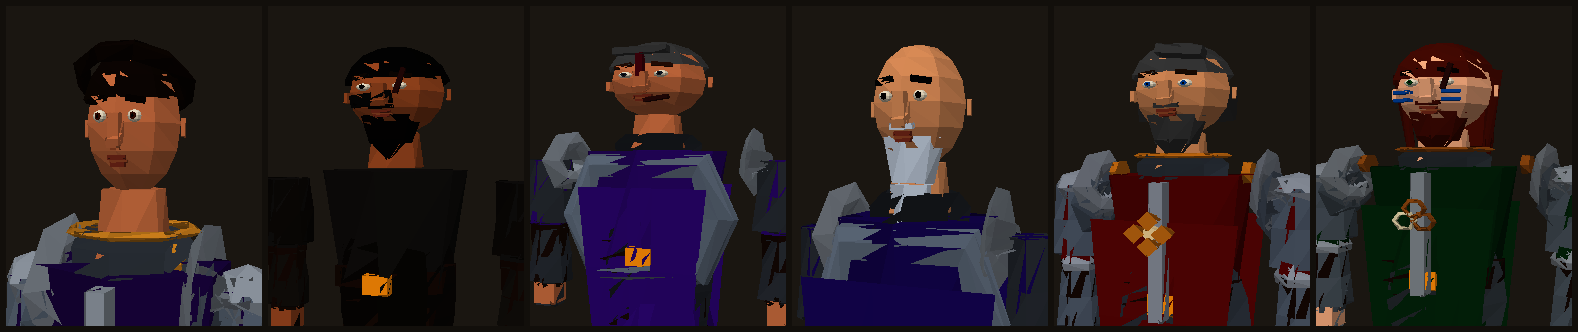
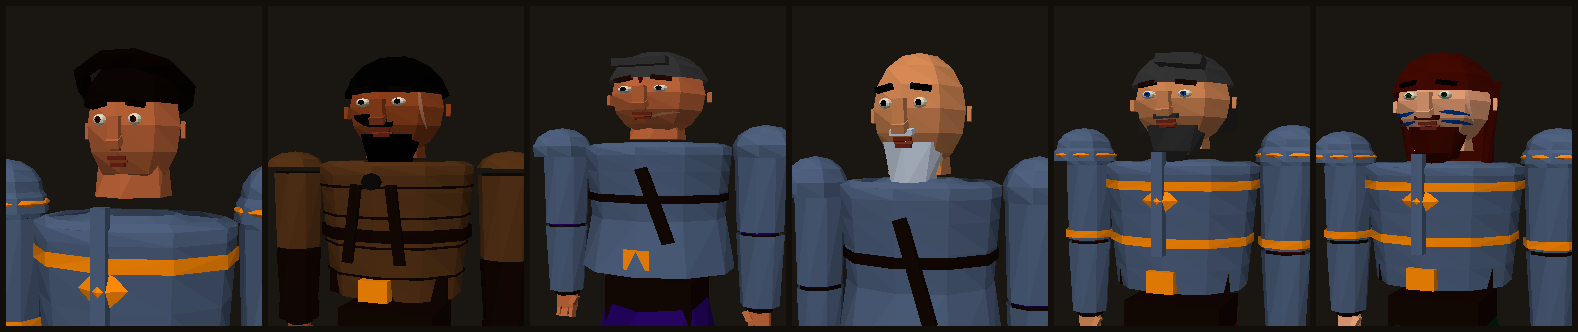
fix(rig): portrede zırhın üstünden taşan tunik ve zırh oturması (Faz 9e)
- gövde silindiri 0.24 -> 0.20 (zırh sığsın), zırh profili gövdeyi birebir izliyor
- yeni üst kapak (topPlate): lathe'ın açık ucu gövde kapağını gösteriyordu
- yaka çeneden omuza uzanan boyunduruk oldu, taban sabit ölçekleniyor
- zırh gövdeyi tamamen örtünce altındaki tunik mesh'i gizleniyor (mor halka bitti)
- preview-portraits/preview-scars: barycentric derinlik ağırlıkları düzeltildi
  (zırhın içindeki kumaş öne geçip mor çizik üretiyordu)
- refitArmorToHead artık createCharacterRig sonunda da çağrılıyor
- probe-armor-chest: taşma ölçütü çevrel yarıçapa normalize edildi (6 vs 10 kenar),
  yakaya 'omuz açıklığından geniş değil' kontrolü

diff --git a/src/game/characterRig.ts b/src/game/characterRig.ts
@@ -226,7 +226,7 @@ export function createCharacterRig(initialOptions?: Partial<CharacterVisualOptio
   torso.position.y = 0.16;
   pelvis.add(torso);
 
-  const torsoMesh = mesh(new THREE.CylinderGeometry(0.24, 0.18, 0.46, 6), mats.cloth);
+  const torsoMesh = mesh(new THREE.CylinderGeometry(0.2, 0.18, 0.46, 6), mats.cloth);
   torsoMesh.position.y = 0.23;
   torsoMesh.scale.z = TORSO_DEPTH_SCALE; // flatter chest -> arms don't sink into the body
   torso.add(torsoMesh);
@@ -462,6 +462,8 @@ export function createCharacterRig(initialOptions?: Partial<CharacterVisualOptio
   };
 
   applyEquipmentToRig(rig, options);
+  // Yaka/gorget temel iskelette de çeneye göre oturtulur (DNA'sız rig'ler için).
+  refitArmorToHead(rig);
   return rig;
 }
 
@@ -671,14 +673,14 @@ function buildArmor(rig: CharacterRig, tier: ArmorTier) {
    * eski profil 1.87'ye çıkıyordu ve levhada göz altına dayanıyordu).
    */
   const PROFILE: Array<[number, number]> = [
-    [-0.24, 0.196],
-    [-0.16, 0.2],
-    [-0.06, 0.208],
-    [0.04, 0.214],
-    [0.14, 0.222],
-    [0.18, 0.216],
-    [0.21, 0.196],
-    [0.225, 0.17],
+    [-0.24, 0.176],
+    [-0.16, 0.183],
+    [-0.06, 0.192],
+    [0.04, 0.2],
+    [0.12, 0.207],
+    [0.18, 0.212],
+    [0.21, 0.214],
+    [0.225, 0.185],
   ];
   const radiusAt = (y: number) => {
     if (y <= PROFILE[0][0]) return PROFILE[0][1];
@@ -700,13 +702,27 @@ function buildArmor(rig: CharacterRig, tier: ArmorTier) {
    * Yaka/gorget: tabanı köprücük kemiğinde, boynu saran ince halka.
    * Grubun içinde durur ki `refitArmorToHead` yüksekliğini çeneye göre kısatlsın.
    */
-  const COLLAR = { bottom: 0.14, height: 0.17 };
+  /**
+   * Üst kapak (shoulder yoke): lathe açık bir yüzey olduğu için gövdenin üst
+   * kapağı içinden görünüyordu (portrede mor halka). Bu halka çukuru kapatır ve
+   * omuz hizasında zırh plakası gibi durur.
+   */
+  const topPlate = (pad: number, mat: THREE.Material) => {
+    const geo = new THREE.RingGeometry(0.1, radiusAt(0.21) + pad, 10, 1);
+    geo.rotateX(-Math.PI / 2);
+    const m = mesh(geo, mat, false);
+    m.position.y = 0.21;
+    m.scale.z = DEPTH;
+    return m;
+  };
+
+  const COLLAR = { bottom: 0.19, height: 0.17 };
   const makeCollar = (mat: THREE.Material) => {
     const g = new THREE.Group();
     g.name = 'armorCollar';
     g.position.y = COLLAR.bottom; // dünya ≈1.52 — köprücük kemiği
     const ring = mesh(
-      new THREE.CylinderGeometry(0.112, 0.15, COLLAR.height, 10, 1, true),
+      new THREE.CylinderGeometry(0.105, 0.216, COLLAR.height, 10, 1, true),
       mat,
       false,
     );
@@ -743,7 +759,7 @@ function buildArmor(rig: CharacterRig, tier: ArmorTier) {
 
   if (tier === 'LEATHER') {
     // Dolgun gambeson: kapitone keten gövde + deri kuşak + kapitone dikişler.
-    pieces.push(shell(0.016, padded));
+    pieces.push(shell(0.016, padded), topPlate(0.016, padded));
     for (const y of [-0.16, -0.06, 0.04, 0.14]) {
       pieces.push(band(y, 0.022, 0.008, leather));
     }
@@ -763,7 +779,7 @@ function buildArmor(rig: CharacterRig, tier: ArmorTier) {
     pieces.push(badge);
   } else if (tier === 'CHAINMAIL') {
     // Postacı: gövde + etek + boyun zırhı + omuz askısı.
-    pieces.push(shell(0.02, metal));
+    pieces.push(shell(0.02, metal), topPlate(0.02, metal));
     const skirt = mesh(new THREE.CylinderGeometry(0.214, 0.242, 0.2, 10, 1, true), metal);
     skirt.position.y = -0.16;
     skirt.scale.z = DEPTH;
@@ -777,7 +793,7 @@ function buildArmor(rig: CharacterRig, tier: ArmorTier) {
     pieces.push(band(0.02, 0.026, 0.03, leather));
   } else if (tier === 'PLATE') {
     // Tam levha: kabuk + omurga + iki kuşak + gorget + arma.
-    pieces.push(shell(0.028, metal));
+    pieces.push(shell(0.028, metal), topPlate(0.028, metal));
     const keel = mesh(new THREE.BoxGeometry(0.032, 0.36, 0.03), metal, false);
     keel.position.set(0, 0.08, frontZ(0.08, 0.028, 0.008));
     pieces.push(keel);
@@ -803,6 +819,19 @@ function buildArmor(rig: CharacterRig, tier: ArmorTier) {
   chestGroup.add(...pieces);
   rig.chestArmorSocket.add(chestGroup);
   for (const p of pieces) p.userData.chestArmor = true;
+
+  /*
+   * Zırh gövdeyi tamamen örtüyorsa altındaki tunik mesh'i gizlenir.
+   * Aksi hâlde tunikin üst kapağı/kenarı zırhın üstünden taşıp portrede
+   * "mor halka" olarak görünüyordu (Faz 9e).
+   */
+  for (const c of rig.torso.children) {
+    const m = c as THREE.Mesh;
+    if (m.isMesh && m.material === cloth) {
+      m.userData.hiddenByArmor = true;
+      m.visible = false;
+    }
+  }
 
   /* ── Kol zırhları (üst kol + ön kol) ──
      Bunlar da BannerForge'dan alınmıyor: onun kol parçaları bizim kollarımıza

diff --git a/scripts/probe-armor-chest.ts b/scripts/probe-armor-chest.ts
@@ -59,6 +59,13 @@ function chestPieces(rig: ReturnType<typeof createCharacterRig>): THREE.Mesh[] {
   return out;
 }
 
+/**
+ * Yaka/gorget ayrı ölçülür: gövde genişliği testine katılırsa "palto gibi"
+ * yanlış pozitifi verir (yaka omuz boyunduruğu olduğu için doğal olarak geniş).
+ */
+const isCollar = (m: THREE.Mesh) => m.parent?.name === 'armorCollar';
+const shellPieces = (rig: ReturnType<typeof createCharacterRig>) => chestPieces(rig).filter((m) => !isCollar(m));
+
 const TIERS: ArmorTier[] = ['LEATHER', 'CHAINMAIL', 'PLATE'];
 
 for (const armory of [true, false]) {
@@ -88,7 +95,8 @@ for (const armory of [true, false]) {
     if (pieces.length === 0) continue;
 
     const group = new THREE.Group();
-    pieces.forEach((p) => {
+    // Yaka hariç kabuk parçaları (yaka omuz boyunduruğu, genişliği ayrı ölçülür).
+    shellPieces(rig).forEach((p) => {
       const clone = new THREE.Mesh(p.geometry, p.material);
       clone.applyMatrix4(p.matrixWorld);
       group.add(clone);
@@ -108,16 +116,40 @@ for (const armory of [true, false]) {
       `${aSize.x.toFixed(3)} vs ${tSize.x.toFixed(3)}`,
     );
 
+
     // 3) Dikey kapsama: göğüsten bele kadar (kemer üstüne kadar iniyor mu?)
     const beltTop = bare.torso.getWorldPosition(new THREE.Vector3()).y + 0.08;
     ok(aBox.min.y <= beltTop + 0.02, `${tier}: bele kadar iniyor (karın açıkta değil)`, `alt ${aBox.min.y.toFixed(3)} ≤ ${beltTop.toFixed(3)}`);
+
+    // Yaka: omuz açıklığını aşmamalı (boyunduruk gibi ama palto değil).
+    const collar = pieces.filter(isCollar);
+    if (collar.length) {
+      const cBox = new THREE.Box3();
+      for (const p of collar) cBox.union(box(p));
+      const shoulderDist = bare.leftShoulder
+        .getWorldPosition(new THREE.Vector3())
+        .distanceTo(bare.rightShoulder.getWorldPosition(new THREE.Vector3()));
+      ok(
+        cBox.getSize(new THREE.Vector3()).x <= shoulderDist,
+        `${tier}: yaka omuz açıklığından geniş değil`,
+        `${cBox.getSize(new THREE.Vector3()).x.toFixed(3)} ≤ ${shoulderDist.toFixed(3)}`,
+      );
+    }
     ok(aBox.max.y >= shoulderY - 0.09, `${tier}: köprücük kemiğine kadar çıkıyor`, `üst ${aBox.max.y.toFixed(3)}`);
 
-    // 4) Aşırı taşma: zırh gövdeden %35'ten fazla genişse "palto" gibi durur
+    /*
+     * 4) Aşırı taşma. Kutular farklı kenar sayılı silindirlerden geliyor
+     *    (gövde 6 kenar, zırh 10 kenar); kutu genişliği köşe sayısına göre
+     *    değiştiği için doğrudan oranlamak yanıltıcı. İkisini de **çevrel
+     *    yarıçapa** çevirip karşılaştırıyoruz.
+     */
+    const circumR = (width: number, sides: number) => width / (2 * Math.cos(Math.PI / sides));
+    const bodyR = circumR(tSize.x, 6);
+    const armorR = circumR(aSize.x, 10);
     ok(
-      aSize.x <= tSize.x * 1.35,
+      armorR <= bodyR * 1.35,
       `${tier}: gövdeden aşırı taşmıyor`,
-      `${(aSize.x / tSize.x).toFixed(2)}×`,
+      `çevrel yarıçap ${armorR.toFixed(3)} vs ${bodyR.toFixed(3)} (${(armorR / bodyR).toFixed(2)}×)`,
     );
     ok(
       aSize.z <= tFront - tBack + 0.16,

diff --git a/scripts/preview-portraits.ts b/scripts/preview-portraits.ts
@@ -139,7 +139,10 @@ function rasterize(tris: Tri[], w: number, h: number): Uint8ClampedArray {
         const w1 = ((cx - p0.x) * (p2.y - p0.y) - (p2.x - p0.x) * (cy - p0.y)) / area;
         const w2 = 1 - w0 - w1;
         if (w0 < 0 || w1 < 0 || w2 < 0) continue;
-        const z = w1 * p0.z + w2 * p1.z + w0 * p2.z;
+        // Barycentric ağırlıklar: w2 → p0, w1 → p1, w0 → p2.
+        // (Önceden p0/p1 yer değiştirmişti; perspektifte NDC z doğrusal
+        //  olmadığı için zırhın içindeki kumaş öne geçip mor çizik üretiyordu.)
+        const z = w2 * p0.z + w1 * p1.z + w0 * p2.z;
         const idx = y * w + x;
         if (z >= zbuf[idx]) continue;
         zbuf[idx] = z;

diff --git a/scripts/preview-scars.ts b/scripts/preview-scars.ts
@@ -125,7 +125,7 @@ function rasterize(tris: Tri[], w: number, h: number): Uint8ClampedArray {
         const w1 = ((cx - p0.x) * (p2.y - p0.y) - (p2.x - p0.x) * (cy - p0.y)) / area;
         const w2 = 1 - w0 - w1;
         if (w0 < 0 || w1 < 0 || w2 < 0) continue;
-        const z = w1 * p0.z + w2 * p1.z + w0 * p2.z;
+        const z = w2 * p0.z + w1 * p1.z + w0 * p2.z; // w2→p0, w1→p1, w0→p2
         const idx = y * w + x;
         if (z >= zbuf[idx]) continue;
         zbuf[idx] = z;
